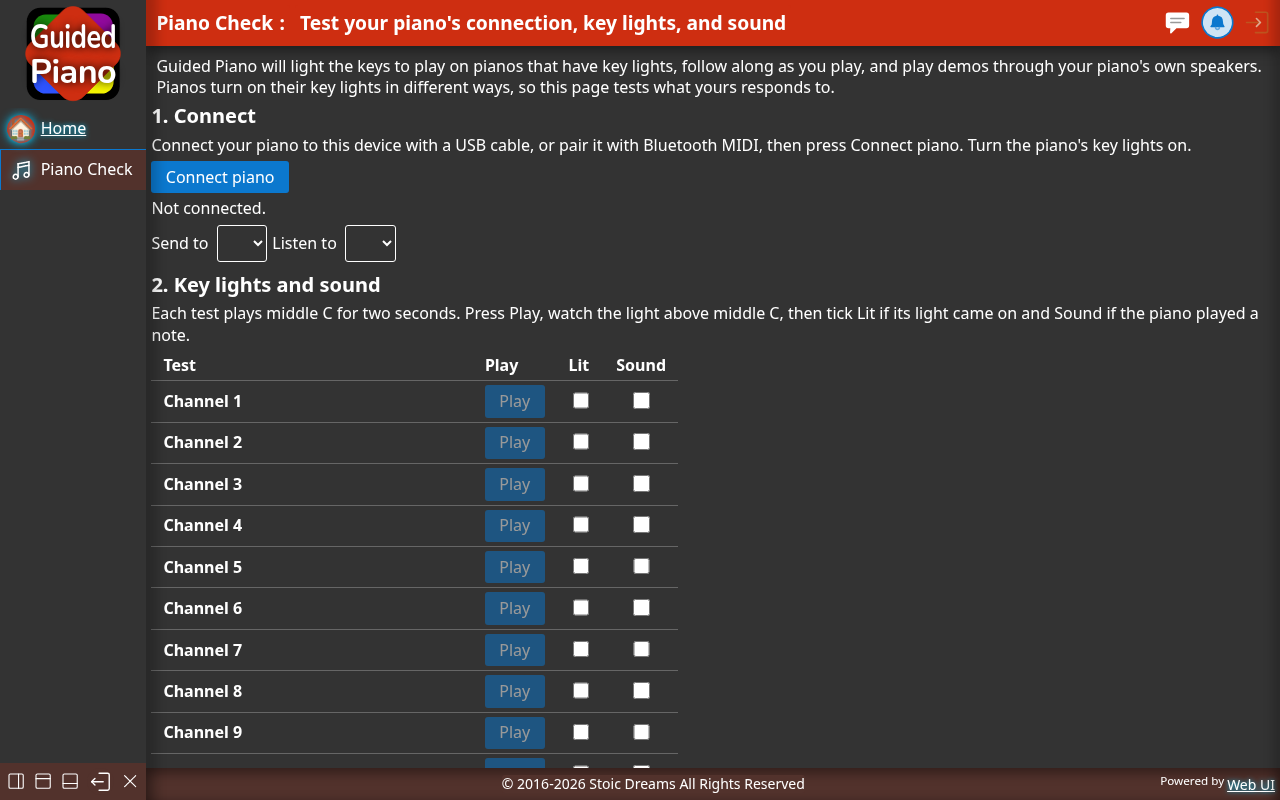
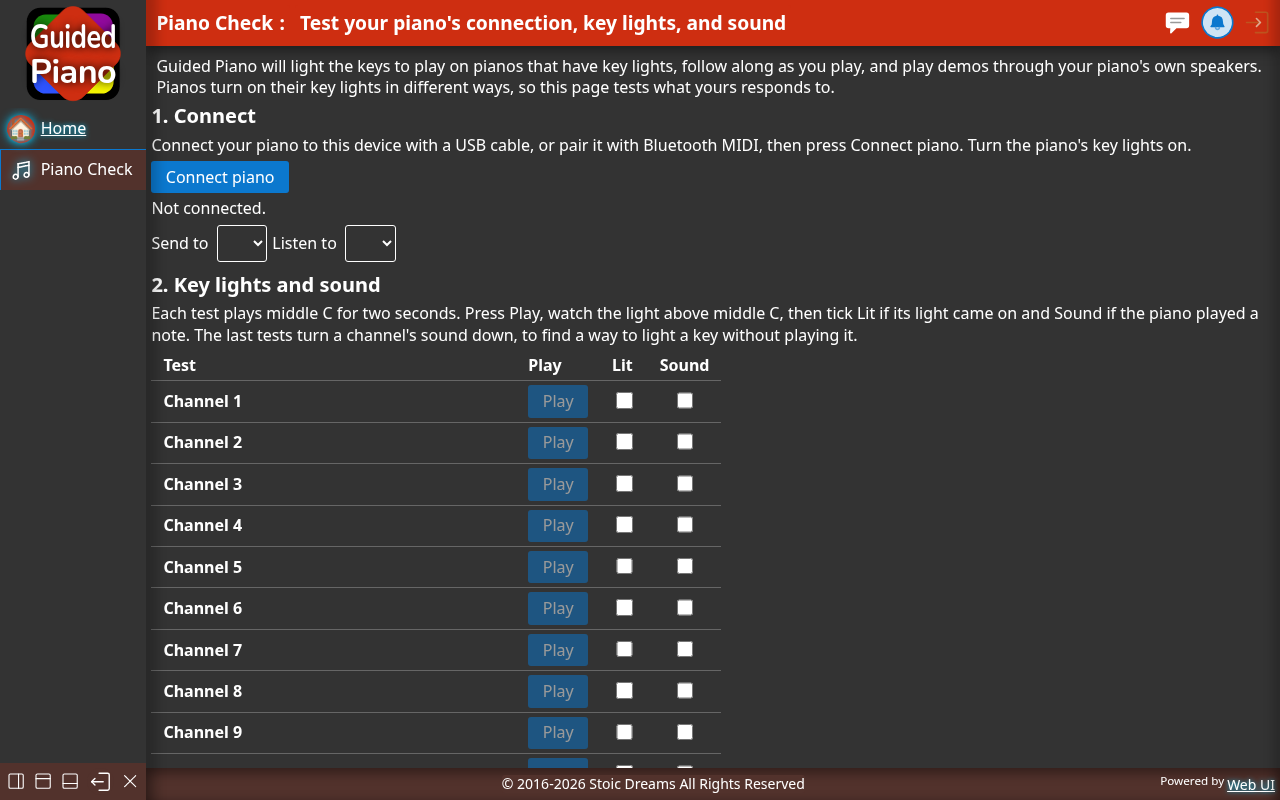
Feature: Piano Check page that tests a connected piano's key lights, demo sound, and Local Control over Web MIDI, including tests for lighting a key without sound

Changed region(s): [[0.1562, 0.4062, 0.6562, 0.9688]]

diff --git a/webapp/wc/piano-check.min.js b/webapp/wc/piano-check.min.js
@@ -5,7 +5,7 @@
  * Authored by Erik Gassler - Stoic Dreams
  * Copyright © 2026 Stoic Dreams - https://www.stoicdreams.com
  * Licensed under the MIT license - https://github.com/StoicDreams/GuidedPiano/blob/main/Docs/LICENSE
- */{let g=function(e){const[t,n,o]=e;if(t>=248)return null;const c=t&240,s=(t&15)+1;switch(c){case 144:return o>0?`Note on ${p(n)} (${n}), velocity ${o}, channel ${s}`:`Note off ${p(n)} (${n}), channel ${s}`;case 128:return`Note off ${p(n)} (${n}), channel ${s}`;case 176:return`Control change ${n} = ${o}, channel ${s}`;case 192:return`Program change ${n+1}, channel ${s}`;case 224:return`Pitch bend ${o<<7|n}, channel ${s}`}return t===240?`System exclusive, ${e.length} bytes`:`Message ${[...e].map(r=>r.toString(16).padStart(2,"0")).join(" ")}`},f=function(e,t){const n=document.createElement("option");return n.value=e,n.textContent=t,n};const b=["C","C#","D","D#","E","F","F#","G","G#","A","A#","B"],p=e=>`${b[e%12]}${Math.floor(e/12)-1}`,h=[60,62,64,65,67,69,71,72],y=40,d=[];for(let e=1;e<=16;e++)d.push({channel:e,velocity:64,label:`Channel ${e}${e===10?" (drums in General MIDI)":""}`});d.push({channel:1,velocity:1,label:"Channel 1, softest note (velocity 1)"}),d.push({channel:1,velocity:127,label:"Channel 1, loudest note (velocity 127)"}),webui.define("app-piano-check",{constructor(){const e=this,t=n=>e.template.querySelector(n);e._status=t(".status"),e._connect=t(".connect"),e._output=t("select.output"),e._input=t("select.input"),e._tests=t("tbody"),e._results=t(".results"),e._copy=t(".copy"),e._demoChannel=t("select.demo-channel"),e._playScale=t(".play-scale"),e._stop=t(".stop"),e._localOff=t(".local-off"),e._localOn=t(".local-on"),e._log=t(".log"),e._clearLog=t(".clear-log"),e._access=null,e._localTurnedOff=!1;for(let n=1;n<=16;n++)e._demoChannel.append(f(n,`Channel ${n}`));e._demoChannel.value="4",e._rows=d.map((n,o)=>{const c=document.createElement("tr"),s=document.createElement("th");s.scope="row",s.textContent=n.label;const r=document.createElement("td"),a=document.createElement("button");a.type="button",a.className="needs-output",a.textContent="Play",a.setAttribute("aria-label",`Play test: ${n.label}`),a.addEventListener("click",()=>e.playTest(o)),r.append(a);const l=["Lit","Sound"].map(i=>{const m=document.createElement("td"),u=document.createElement("input");return u.type="checkbox",u.setAttribute("aria-label",`${i}: ${n.label}`),u.addEventListener("change",()=>e.updateResults()),m.append(u),{cell:m,box:u}});return c.append(s,r,l[0].cell,l[1].cell),e._tests.append(c),{test:n,play:a,lit:l[0].box,sound:l[1].box,played:!1}}),e._needsOutput=[...e.template.querySelectorAll(".needs-output")],e._connect.addEventListener("click",()=>e.connectPiano()),e._output.addEventListener("change",()=>e.updateResults()),e._input.addEventListener("change",()=>e.listen()),e._copy.addEventListener("click",()=>e.copyResults()),e._playScale.addEventListener("click",()=>e.playScale()),e._stop.addEventListener("click",()=>e.stopAll()),e._localOff.addEventListener("click",()=>e.setLocal(!1)),e._localOn.addEventListener("click",()=>e.setLocal(!0)),e._clearLog.addEventListener("click",()=>e._log.replaceChildren()),e._onMessage=n=>e.logMessage(n.data),e._onPageHide=()=>e.release()},connected(){const e=this;window.addEventListener("pagehide",e._onPageHide),typeof navigator.requestMIDIAccess!="function"&&(e.setStatus("This browser can't connect to a piano. Chrome, Edge, and Firefox can. Safari can't."),e._connect.disabled=!0),e.updateControls(),e.updateResults()},reconnected(){window.addEventListener("pagehide",this._onPageHide)},disconnected(){const e=this;queueMicrotask(()=>{e.isConnected||(window.removeEventListener("pagehide",e._onPageHide),e.release())})},setStatus(e){this._status.textContent=e},async connectPiano(){const e=this;if(e._access){e.refreshPorts();return}e.setStatus("Asking to connect\u2026");try{e._access=await navigator.requestMIDIAccess({sysex:!1})}catch(t){e.setStatus(`The browser didn't allow the connection (${t?.name||"error"}). Allow MIDI devices for this site, then try again.`);return}e._access.addEventListener("statechange",()=>e.refreshPorts()),e.refreshPorts()},refreshPorts(){const e=this,t=[...e._access.outputs.values()],n=[...e._access.inputs.values()],o=(r,a)=>{const l=r.value;return r.replaceChildren(...a.map(i=>f(i.id,i.name||i.manufacturer||"Unnamed device"))),a.some(i=>i.id===l)&&(r.value=l),!!l&&r.value===l},c=o(e._output,t),s=o(e._input,n);if(!c){const r=new Set(n.map(l=>l.name)),a=t.find(l=>r.has(l.name));a&&(e._output.value=a.id)}!s&&n.length&&(e._input.value=n[0].id),!t.length&&!n.length?e.setStatus("Connected to the browser, but no piano was found. Plug in the piano or pair it with Bluetooth MIDI, and turn it on."):t.length?e.setStatus(`Connected. ${t.length} output${t.length===1?"":"s"} and ${n.length} input${n.length===1?"":"s"} found.`):e.setStatus("The piano sends notes, but nothing was found to send notes to."),e.listen(),e.updateControls(),e.updateResults()},output(){return this._access?.outputs.get(this._output.value)||null},listen(){const e=this;if(!e._access)return;e._access.inputs.forEach(n=>n.removeEventListener("midimessage",e._onMessage)),e._access.inputs.get(e._input.value)?.addEventListener("midimessage",e._onMessage)},updateControls(){const e=this,t=!e.output();e._needsOutput.forEach(n=>n.disabled=t)},send(e,t){const n=this.output();return n?(n.send(e,t),!0):!1},playTest(e){const t=this,n=t._rows[e],{channel:o,velocity:c}=n.test,s=o-1;t.send([144|s,60,c])&&(t.send([128|s,60,0],performance.now()+2e3),n.played=!0,t.setStatus(`Played middle C on channel ${o} for ${2e3/1e3} seconds. Tick Lit or Sound for what the piano did.`),t.updateResults())},playScale(){const e=this,t=Number(e._demoChannel.value)-1;if(!e.send([192|t,0]))return;const n=performance.now()+100;[...h,...h.slice(0,-1).reverse()].forEach((c,s)=>{e.send([144|t,c,80],n+s*400),e.send([128|t,c,0],n+s*400+350)}),e.setStatus(`Playing a C major scale on channel ${t+1}.`)},stopAll(){const e=this,t=e.output();if(t){typeof t.clear=="function"&&t.clear();for(let n=0;n<16;n++)t.send([176|n,123,0]),t.send([176|n,120,0]);e.setStatus("Sent All Notes Off on every channel.")}},setLocal(e){const t=this;t.send([176,122,e?127:0])&&(t._localTurnedOff=!e,t.setStatus(e?"Local Control is on. The piano plays its own keys again.":"Local Control is off. The piano stays silent when you play, until you turn it back on or leave this page."))},release(){const e=this;e.output()&&(e.stopAll(),e._localTurnedOff&&e.setLocal(!0))},logMessage(e){const t=this,n=g(e);if(!n)return;const o=document.createElement("li");for(o.textContent=n,t._log.prepend(o);t._log.childElementCount>y;)t._log.lastElementChild.remove()},resultsText(){const e=this,t=e.output(),n=[`Piano: ${t?`${t.name||"Unnamed"}${t.manufacturer?` (${t.manufacturer})`:""}`:"not connected"}`,`Browser: ${navigator.userAgent}`,"","Test | Lit | Sound"];return e._rows.filter(o=>o.played).forEach(o=>{n.push(`${o.test.label} | ${o.lit.checked?"yes":"no"} | ${o.sound.checked?"yes":"no"}`)}),e._rows.some(o=>o.played)||n.push("(No tests played yet)"),n.join(`
+ */{let g=function(e){const[t,n,o]=e;if(t>=248)return null;const s=t&240,a=(t&15)+1;switch(s){case 144:return o>0?`Note on ${p(n)} (${n}), velocity ${o}, channel ${a}`:`Note off ${p(n)} (${n}), channel ${a}`;case 128:return`Note off ${p(n)} (${n}), channel ${a}`;case 176:return`Control change ${n} = ${o}, channel ${a}`;case 192:return`Program change ${n+1}, channel ${a}`;case 224:return`Pitch bend ${o<<7|n}, channel ${a}`}return t===240?`System exclusive, ${e.length} bytes`:`Message ${[...e].map(c=>c.toString(16).padStart(2,"0")).join(" ")}`},f=function(e,t){const n=document.createElement("option");return n.value=e,n.textContent=t,n};const m=["C","C#","D","D#","E","F","F#","G","G#","A","A#","B"],p=e=>`${m[e%12]}${Math.floor(e/12)-1}`,h=[60,62,64,65,67,69,71,72],y=40,u=[];for(let e=1;e<=16;e++)u.push({channel:e,velocity:64,label:`Channel ${e}${e===10?" (drums in General MIDI)":""}`});u.push({channel:1,velocity:1,label:"Channel 1, softest note (velocity 1)"}),u.push({channel:1,velocity:127,label:"Channel 1, loudest note (velocity 127)"}),u.push({channel:1,velocity:10,label:"Channel 1, very soft note (velocity 10)"}),u.push({channel:5,velocity:64,controllers:[[7,0,100]],label:"Channel 5 with its volume at 0"}),u.push({channel:6,velocity:64,controllers:[[11,0,127]],label:"Channel 6 with its expression at 0"}),u.push({channel:7,velocity:64,controllers:[[7,0,100],[11,0,127]],label:"Channel 7 with volume and expression at 0"}),webui.define("app-piano-check",{constructor(){const e=this,t=n=>e.template.querySelector(n);e._status=t(".status"),e._connect=t(".connect"),e._output=t("select.output"),e._input=t("select.input"),e._tests=t("tbody"),e._results=t(".results"),e._copy=t(".copy"),e._notes=t(".notes-text"),e._demoChannel=t("select.demo-channel"),e._playScale=t(".play-scale"),e._stop=t(".stop"),e._localOff=t(".local-off"),e._localOn=t(".local-on"),e._log=t(".log"),e._clearLog=t(".clear-log"),e._access=null,e._localTurnedOff=!1;for(let n=1;n<=16;n++)e._demoChannel.append(f(n,`Channel ${n}`));e._demoChannel.value="4",e._rows=u.map((n,o)=>{const s=document.createElement("tr"),a=document.createElement("th");a.scope="row",a.textContent=n.label;const c=document.createElement("td"),r=document.createElement("button");r.type="button",r.className="needs-output",r.textContent="Play",r.setAttribute("aria-label",`Play test: ${n.label}`),r.addEventListener("click",()=>e.playTest(o)),c.append(r);const l=["Lit","Sound"].map(i=>{const b=document.createElement("td"),d=document.createElement("input");return d.type="checkbox",d.setAttribute("aria-label",`${i}: ${n.label}`),d.addEventListener("change",()=>e.updateResults()),b.append(d),{cell:b,box:d}});return s.append(a,c,l[0].cell,l[1].cell),e._tests.append(s),{test:n,play:r,lit:l[0].box,sound:l[1].box,played:!1}}),e._needsOutput=[...e.template.querySelectorAll(".needs-output")],e._connect.addEventListener("click",()=>e.connectPiano()),e._output.addEventListener("change",()=>e.updateResults()),e._input.addEventListener("change",()=>e.listen()),e._copy.addEventListener("click",()=>e.copyResults()),e._notes.addEventListener("input",()=>e.updateResults()),e._playScale.addEventListener("click",()=>e.playScale()),e._stop.addEventListener("click",()=>e.stopAll()),e._localOff.addEventListener("click",()=>e.setLocal(!1)),e._localOn.addEventListener("click",()=>e.setLocal(!0)),e._clearLog.addEventListener("click",()=>e._log.replaceChildren()),e._onMessage=n=>e.logMessage(n.data),e._onPageHide=()=>e.release()},connected(){const e=this;window.addEventListener("pagehide",e._onPageHide),typeof navigator.requestMIDIAccess!="function"&&(e.setStatus("This browser can't connect to a piano. Chrome, Edge, and Firefox can. Safari can't."),e._connect.disabled=!0),e.updateControls(),e.updateResults()},reconnected(){window.addEventListener("pagehide",this._onPageHide)},disconnected(){const e=this;queueMicrotask(()=>{e.isConnected||(window.removeEventListener("pagehide",e._onPageHide),e.release())})},setStatus(e){this._status.textContent=e},async connectPiano(){const e=this;if(e._access){e.refreshPorts();return}e.setStatus("Asking to connect\u2026");try{e._access=await navigator.requestMIDIAccess({sysex:!1})}catch(t){e.setStatus(`The browser didn't allow the connection (${t?.name||"error"}). Allow MIDI devices for this site, then try again.`);return}e._access.addEventListener("statechange",()=>e.refreshPorts()),e.refreshPorts()},refreshPorts(){const e=this,t=[...e._access.outputs.values()],n=[...e._access.inputs.values()],o=(c,r)=>{const l=c.value;return c.replaceChildren(...r.map(i=>f(i.id,i.name||i.manufacturer||"Unnamed device"))),r.some(i=>i.id===l)&&(c.value=l),!!l&&c.value===l},s=o(e._output,t),a=o(e._input,n);if(!s){const c=new Set(n.map(l=>l.name)),r=t.find(l=>c.has(l.name));r&&(e._output.value=r.id)}!a&&n.length&&(e._input.value=n[0].id),!t.length&&!n.length?e.setStatus("Connected to the browser, but no piano was found. Plug in the piano or pair it with Bluetooth MIDI, and turn it on."):t.length?e.setStatus(`Connected. ${t.length} output${t.length===1?"":"s"} and ${n.length} input${n.length===1?"":"s"} found.`):e.setStatus("The piano sends notes, but nothing was found to send notes to."),e.listen(),e.updateControls(),e.updateResults()},output(){return this._access?.outputs.get(this._output.value)||null},listen(){const e=this;if(!e._access)return;e._access.inputs.forEach(n=>n.removeEventListener("midimessage",e._onMessage)),e._access.inputs.get(e._input.value)?.addEventListener("midimessage",e._onMessage)},updateControls(){const e=this,t=!e.output();e._needsOutput.forEach(n=>n.disabled=t)},send(e,t){const n=this.output();return n?(n.send(e,t),!0):!1},playTest(e){const t=this,n=t._rows[e],{channel:o,velocity:s,controllers:a=[]}=n.test,c=o-1;if(!t.output())return;a.forEach(([l,i])=>t.send([176|c,l,i])),t.send([144|c,60,s]);const r=performance.now()+2e3;t.send([128|c,60,0],r),a.forEach(([l,,i])=>t.send([176|c,l,i],r+50)),n.played=!0,t.setStatus(`Played middle C on channel ${o} for ${2e3/1e3} seconds. Tick Lit or Sound for what the piano did.`),t.updateResults()},playScale(){const e=this,t=Number(e._demoChannel.value)-1;if(!e.send([192|t,0]))return;const n=performance.now()+100;[...h,...h.slice(0,-1).reverse()].forEach((s,a)=>{e.send([144|t,s,80],n+a*400),e.send([128|t,s,0],n+a*400+350)}),e.setStatus(`Playing a C major scale on channel ${t+1}.`)},stopAll(){const e=this,t=e.output();if(t){typeof t.clear=="function"&&t.clear();for(let n=0;n<16;n++)t.send([176|n,123,0]),t.send([176|n,120,0]);e.setStatus("Sent All Notes Off on every channel.")}},setLocal(e){const t=this;t.send([176,122,e?127:0])&&(t._localTurnedOff=!e,t.setStatus(e?"Local Control is on. The piano plays its own keys again.":"Local Control is off. The piano stays silent when you play, until you turn it back on or leave this page."))},release(){const e=this;e.output()&&(e.stopAll(),e._localTurnedOff&&e.setLocal(!0))},logMessage(e){const t=this,n=g(e);if(!n)return;const o=document.createElement("li");for(o.textContent=n,t._log.prepend(o);t._log.childElementCount>y;)t._log.lastElementChild.remove()},resultsText(){const e=this,t=e.output(),n=[`Piano: ${t?`${t.name||"Unnamed"}${t.manufacturer?` (${t.manufacturer})`:""}`:"not connected"}`,`Browser: ${navigator.userAgent}`,"","Test | Lit | Sound"];e._rows.filter(s=>s.played).forEach(s=>{n.push(`${s.test.label} | ${s.lit.checked?"yes":"no"} | ${s.sound.checked?"yes":"no"}`)}),e._rows.some(s=>s.played)||n.push("(No tests played yet)");const o=e._notes.value.trim();return o&&n.push("",`Notes: ${o}`),n.join(`
 `)},updateResults(){this._results.textContent=this.resultsText()},async copyResults(){const e=this;try{await navigator.clipboard.writeText(e.resultsText()),e.setStatus("Copied the results.")}catch{e.setStatus("Couldn't copy. Select the results text and copy it instead.")}},shadowTemplate:`
 <section>
 <h2>1. Connect</h2>
@@ -21,13 +21,14 @@
 </section>
 <section>
 <h2>2. Key lights and sound</h2>
-<p>Each test plays middle C for two seconds. Press Play, watch the light above middle C, then tick Lit if its light came on and Sound if the piano played a note.</p>
+<p>Each test plays middle C for two seconds. Press Play, watch the light above middle C, then tick Lit if its light came on and Sound if the piano played a note. The last tests turn a channel's sound down, to find a way to light a key without playing it.</p>
 <div class="table">
 <table>
 <thead><tr><th scope="col">Test</th><th scope="col">Play</th><th scope="col">Lit</th><th scope="col">Sound</th></tr></thead>
 <tbody></tbody>
 </table>
 </div>
+<label class="notes">Notes, such as the light's color for each test <textarea class="notes-text" rows="3"></textarea></label>
 <div class="row">
 <button type="button" class="copy needs-output">Copy results</button>
 </div>
@@ -87,7 +88,7 @@ flex-wrap: wrap;
 align-items: center;
 gap: 0.5em;
 }
-button, select {
+button, select, textarea {
 font: inherit;
 border-radius: var(--corners, 6px);
 padding: 0.35em 0.9em;
@@ -102,15 +103,20 @@ button:disabled {
 opacity: 0.5;
 cursor: not-allowed;
 }
-select {
+select, textarea {
 max-width: 100%;
 border: 1px solid currentColor;
 background-color: var(--color-background, #333);
 color: var(--color-background-offset, #fff);
 }
-button:focus-visible, select:focus-visible, input:focus-visible, pre:focus-visible {
+button:focus-visible, select:focus-visible, textarea:focus-visible, input:focus-visible, pre:focus-visible {
 outline: 2px solid var(--color-active, #0b78ce);
 outline-offset: 2px;
+}
+.notes {
+display: flex;
+flex-direction: column;
+align-items: stretch;
 }
 .table {
 overflow-x: auto;

diff --git a/webapp/wc/piano-check.js b/webapp/wc/piano-check.js
@@ -25,6 +25,12 @@
     }
     TESTS.push({ channel: 1, velocity: 1, label: 'Channel 1, softest note (velocity 1)' });
     TESTS.push({ channel: 1, velocity: 127, label: 'Channel 1, loudest note (velocity 127)' });
+    TESTS.push({ channel: 1, velocity: 10, label: 'Channel 1, very soft note (velocity 10)' });
+    // Silent lights: guided play needs to light the next key without the piano playing it. Each of these turns a
+    // channel's sound down first and restores the General MIDI default afterwards.
+    TESTS.push({ channel: 5, velocity: 64, controllers: [[7, 0, 100]], label: 'Channel 5 with its volume at 0' });
+    TESTS.push({ channel: 6, velocity: 64, controllers: [[11, 0, 127]], label: 'Channel 6 with its expression at 0' });
+    TESTS.push({ channel: 7, velocity: 64, controllers: [[7, 0, 100], [11, 0, 127]], label: 'Channel 7 with volume and expression at 0' });
 
     /** Describes a MIDI message in words, or returns null for timing messages that would flood the log. */
     function describe(data) {
@@ -68,6 +74,7 @@
             t._tests = q('tbody');
             t._results = q('.results');
             t._copy = q('.copy');
+            t._notes = q('.notes-text');
             t._demoChannel = q('select.demo-channel');
             t._playScale = q('.play-scale');
             t._stop = q('.stop');
@@ -116,6 +123,7 @@
             t._output.addEventListener('change', () => t.updateResults());
             t._input.addEventListener('change', () => t.listen());
             t._copy.addEventListener('click', () => t.copyResults());
+            t._notes.addEventListener('input', () => t.updateResults());
             t._playScale.addEventListener('click', () => t.playScale());
             t._stop.addEventListener('click', () => t.stopAll());
             t._localOff.addEventListener('click', () => t.setLocal(false));
@@ -221,10 +229,15 @@
         playTest(index) {
             const t = this;
             const row = t._rows[index];
-            const { channel, velocity } = row.test;
+            const { channel, velocity, controllers = [] } = row.test;
             const status = channel - 1;
-            if (!t.send([0x90 | status, TEST_NOTE, velocity])) return;
-            t.send([0x80 | status, TEST_NOTE, 0], performance.now() + TEST_HOLD_MS);
+            if (!t.output()) return;
+            // Each controller is [number, value during the test, value to restore].
+            controllers.forEach(([number, value]) => t.send([0xB0 | status, number, value]));
+            t.send([0x90 | status, TEST_NOTE, velocity]);
+            const end = performance.now() + TEST_HOLD_MS;
+            t.send([0x80 | status, TEST_NOTE, 0], end);
+            controllers.forEach(([number, , restore]) => t.send([0xB0 | status, number, restore], end + 50));
             row.played = true;
             t.setStatus(`Played middle C on channel ${channel} for ${TEST_HOLD_MS / 1000} seconds. Tick Lit or Sound for what the piano did.`);
             t.updateResults();
@@ -292,6 +305,8 @@
                 lines.push(`${row.test.label} | ${row.lit.checked ? 'yes' : 'no'} | ${row.sound.checked ? 'yes' : 'no'}`);
             });
             if (!t._rows.some(row => row.played)) lines.push('(No tests played yet)');
+            const notes = t._notes.value.trim();
+            if (notes) lines.push('', `Notes: ${notes}`);
             return lines.join('\n');
         },
         updateResults() {
@@ -321,13 +336,14 @@
 </section>
 <section>
 <h2>2. Key lights and sound</h2>
-<p>Each test plays middle C for two seconds. Press Play, watch the light above middle C, then tick Lit if its light came on and Sound if the piano played a note.</p>
+<p>Each test plays middle C for two seconds. Press Play, watch the light above middle C, then tick Lit if its light came on and Sound if the piano played a note. The last tests turn a channel's sound down, to find a way to light a key without playing it.</p>
 <div class="table">
 <table>
 <thead><tr><th scope="col">Test</th><th scope="col">Play</th><th scope="col">Lit</th><th scope="col">Sound</th></tr></thead>
 <tbody></tbody>
 </table>
 </div>
+<label class="notes">Notes, such as the light's color for each test <textarea class="notes-text" rows="3"></textarea></label>
 <div class="row">
 <button type="button" class="copy needs-output">Copy results</button>
 </div>
@@ -387,7 +403,7 @@ flex-wrap: wrap;
 align-items: center;
 gap: 0.5em;
 }
-button, select {
+button, select, textarea {
 font: inherit;
 border-radius: var(--corners, 6px);
 padding: 0.35em 0.9em;
@@ -402,15 +418,20 @@ button:disabled {
 opacity: 0.5;
 cursor: not-allowed;
 }
-select {
+select, textarea {
 max-width: 100%;
 border: 1px solid currentColor;
 background-color: var(--color-background, #333);
 color: var(--color-background-offset, #fff);
 }
-button:focus-visible, select:focus-visible, input:focus-visible, pre:focus-visible {
+button:focus-visible, select:focus-visible, textarea:focus-visible, input:focus-visible, pre:focus-visible {
 outline: 2px solid var(--color-active, #0b78ce);
 outline-offset: 2px;
+}
+.notes {
+display: flex;
+flex-direction: column;
+align-items: stretch;
 }
 .table {
 overflow-x: auto;

diff --git a/webapp/root_files/service-worker.min.js b/webapp/root_files/service-worker.min.js
@@ -1,1 +1,1 @@
-self.addEventListener("install",t=>t.waitUntil(onInstall(t))),self.addEventListener("activate",t=>t.waitUntil(onActivate(t))),self.addEventListener("fetch",t=>{const e=new URL(t.request.url);e.protocol==="ipc:"||e.protocol==="tauri:"||e.hostname==="ipc.localhost"||e.hostname==="tauri.localhost"||e.hostname.startsWith("127")||e.hostname==="localhost"||t.request.url.startsWith("http")&&allowCache(t.request)&&t.respondWith(onFetch(t))});const currentVersion="0.1.14",cacheNamePrefix="offline-cache-",cacheName=`${cacheNamePrefix}${currentVersion}`;async function onInstall(t){self.skipWaiting()}async function onActivate(t){const e=await caches.keys();await Promise.all(e.filter(a=>a.startsWith(cacheNamePrefix)&&a!==cacheName).map(a=>caches.delete(a))),await self.clients.claim()}async function onFetch(t){const e=await caches.open(cacheName);let a;try{a=await fetch(applyCacheBusting(t.request))}catch(n){const c=await e.match(t.request);if(c)return c;throw n}return a.ok?(t.waitUntil(e.put(t.request,a.clone()).catch(()=>{})),a):await e.match(t.request)||a}function applyCacheBusting(t){try{const e=new URL(t.url);return e.searchParams.set("_",Date.now()),new Request(e.toString(),t)}catch{return t}}function allowCache(t){return!(t.method!=="GET"||t.mode==="navigate")}
+self.addEventListener("install",t=>t.waitUntil(onInstall(t))),self.addEventListener("activate",t=>t.waitUntil(onActivate(t))),self.addEventListener("fetch",t=>{const e=new URL(t.request.url);e.protocol==="ipc:"||e.protocol==="tauri:"||e.hostname==="ipc.localhost"||e.hostname==="tauri.localhost"||e.hostname.startsWith("127")||e.hostname==="localhost"||t.request.url.startsWith("http")&&allowCache(t.request)&&t.respondWith(onFetch(t))});const currentVersion="0.1.15",cacheNamePrefix="offline-cache-",cacheName=`${cacheNamePrefix}${currentVersion}`;async function onInstall(t){self.skipWaiting()}async function onActivate(t){const e=await caches.keys();await Promise.all(e.filter(a=>a.startsWith(cacheNamePrefix)&&a!==cacheName).map(a=>caches.delete(a))),await self.clients.claim()}async function onFetch(t){const e=await caches.open(cacheName);let a;try{a=await fetch(applyCacheBusting(t.request))}catch(n){const c=await e.match(t.request);if(c)return c;throw n}return a.ok?(t.waitUntil(e.put(t.request,a.clone()).catch(()=>{})),a):await e.match(t.request)||a}function applyCacheBusting(t){try{const e=new URL(t.url);return e.searchParams.set("_",Date.now()),new Request(e.toString(),t)}catch{return t}}function allowCache(t){return!(t.method!=="GET"||t.mode==="navigate")}

diff --git a/webapp/root_files/service-worker.js b/webapp/root_files/service-worker.js
@@ -20,7 +20,7 @@ self.addEventListener('fetch', event => {
     }
     event.respondWith(onFetch(event))
 });
-const currentVersion = '0.1.14';
+const currentVersion = '0.1.15';
 const cacheNamePrefix = 'offline-cache-';
 const cacheName = `${cacheNamePrefix}${currentVersion}`;
 async function onInstall(event) {

diff --git a/Docs/README.md b/Docs/README.md
@@ -1,6 +1,6 @@
 # Guided Piano
 
-[Version: 0.1.14](https://github.com/StoicDreams/GuidedPiano)
+[Version: 0.1.15](https://github.com/StoicDreams/GuidedPiano)
 
 [WebUI](https://github.com/StoicDreams/WebUI)
 
